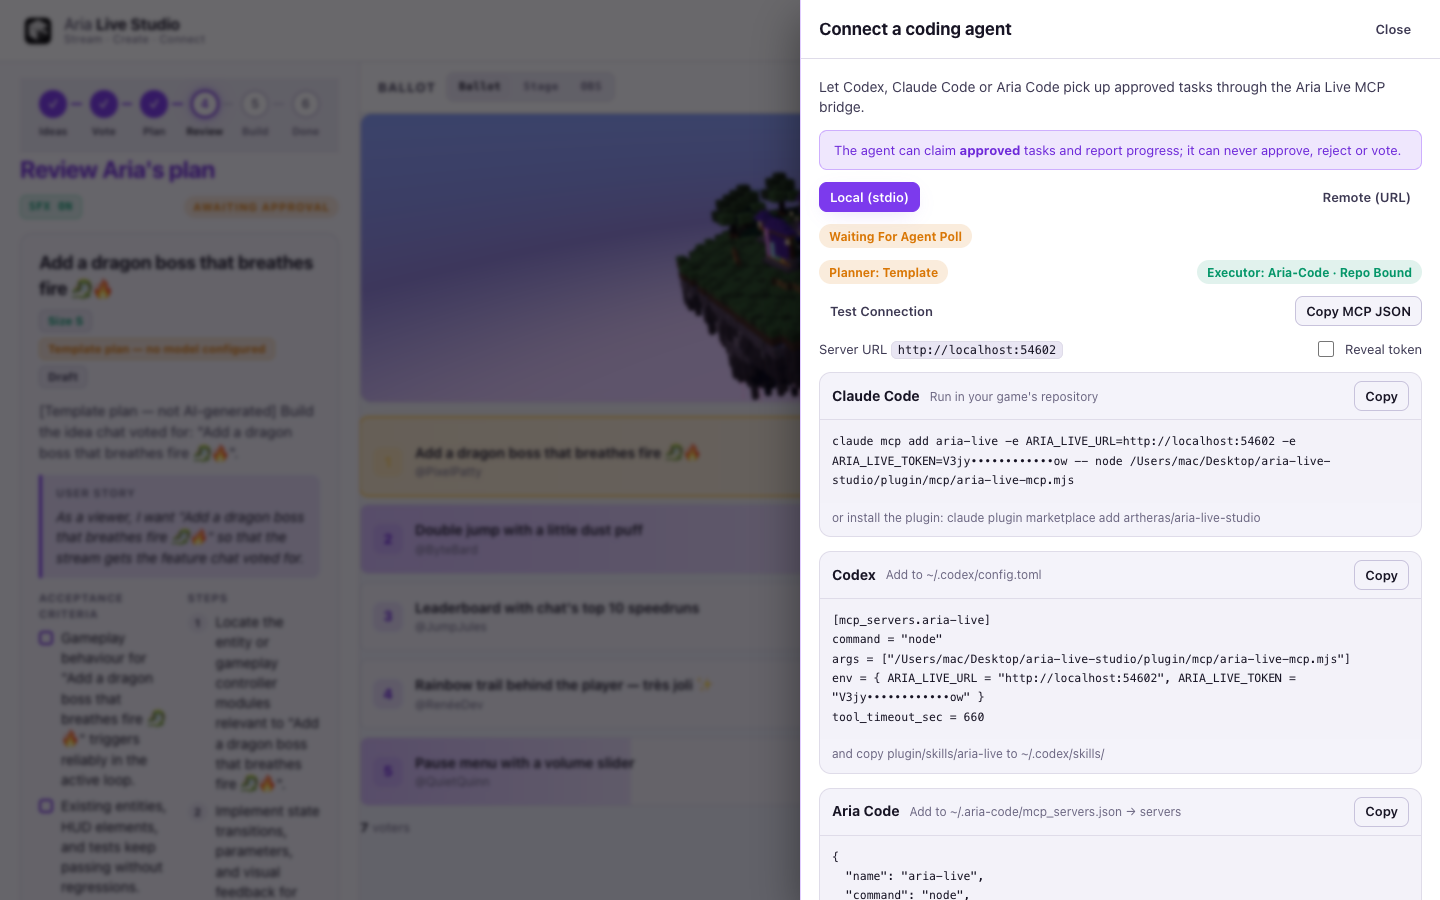
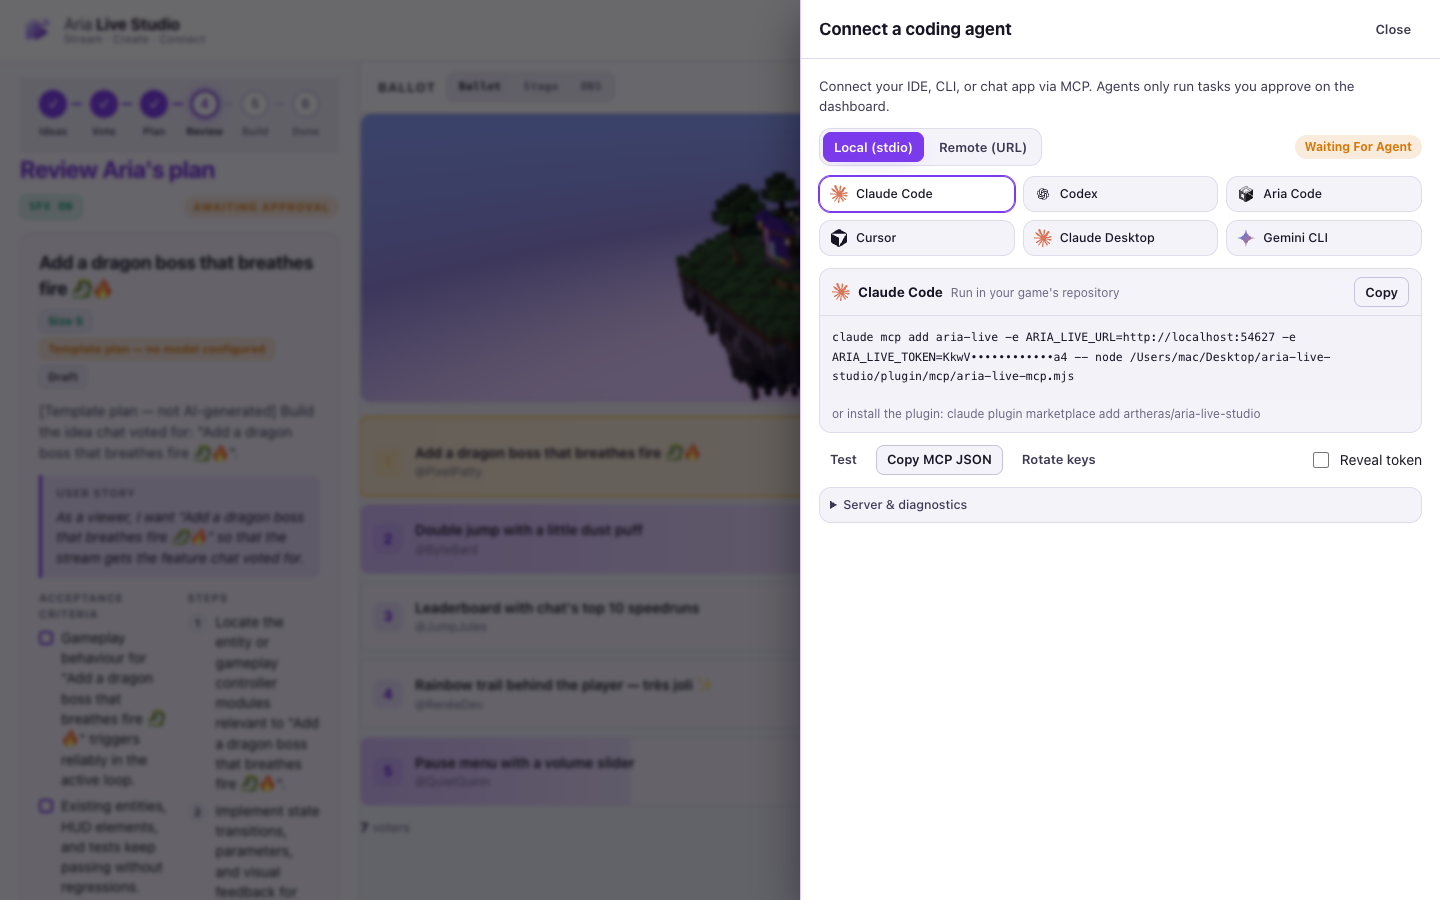
docs: update README and screenshots with new Connect Agent panel

diff --git a/README.md b/README.md
@@ -17,10 +17,10 @@ progress on an OBS overlay.
                                                                  claim · build · report · finish
 ```
 
-| Streamer Studio (Light Theme & 3D Workshop Preview) | Pop-out Showcase (3D Floating Acropolis) |
+| Streamer Studio (Light Theme & 3D Workshop Preview) | Multi-Client MCP Connector (IDE / CLI / Chat Apps) |
 |---|---|
-| ![Streamer Studio Light Theme](docs/screenshots/dashboard-idle.jpg) | ![Pop-out Showcase 3D Floating Acropolis](docs/screenshots/popout-showcase.jpg) |
-| ![Pop-out Card Mode](docs/screenshots/popout-card.jpg) | ![Pop-out Green Chroma Key Mode](docs/screenshots/popout-green-chroma.png) |
+| ![Streamer Studio Light Theme](docs/screenshots/dashboard-idle.jpg) | ![Connect a coding agent via MCP](docs/screenshots/dashboard-connect-agent.png) |
+| ![Pop-out Showcase 3D Floating Acropolis](docs/screenshots/popout-showcase.jpg) | ![Pop-out Green Chroma Key Mode](docs/screenshots/popout-green-chroma.png) |
 
 | Streamer dashboard (voting & live MCP execution) | OBS overlay (transparent, 1920 × 1080) |
 |---|---|
